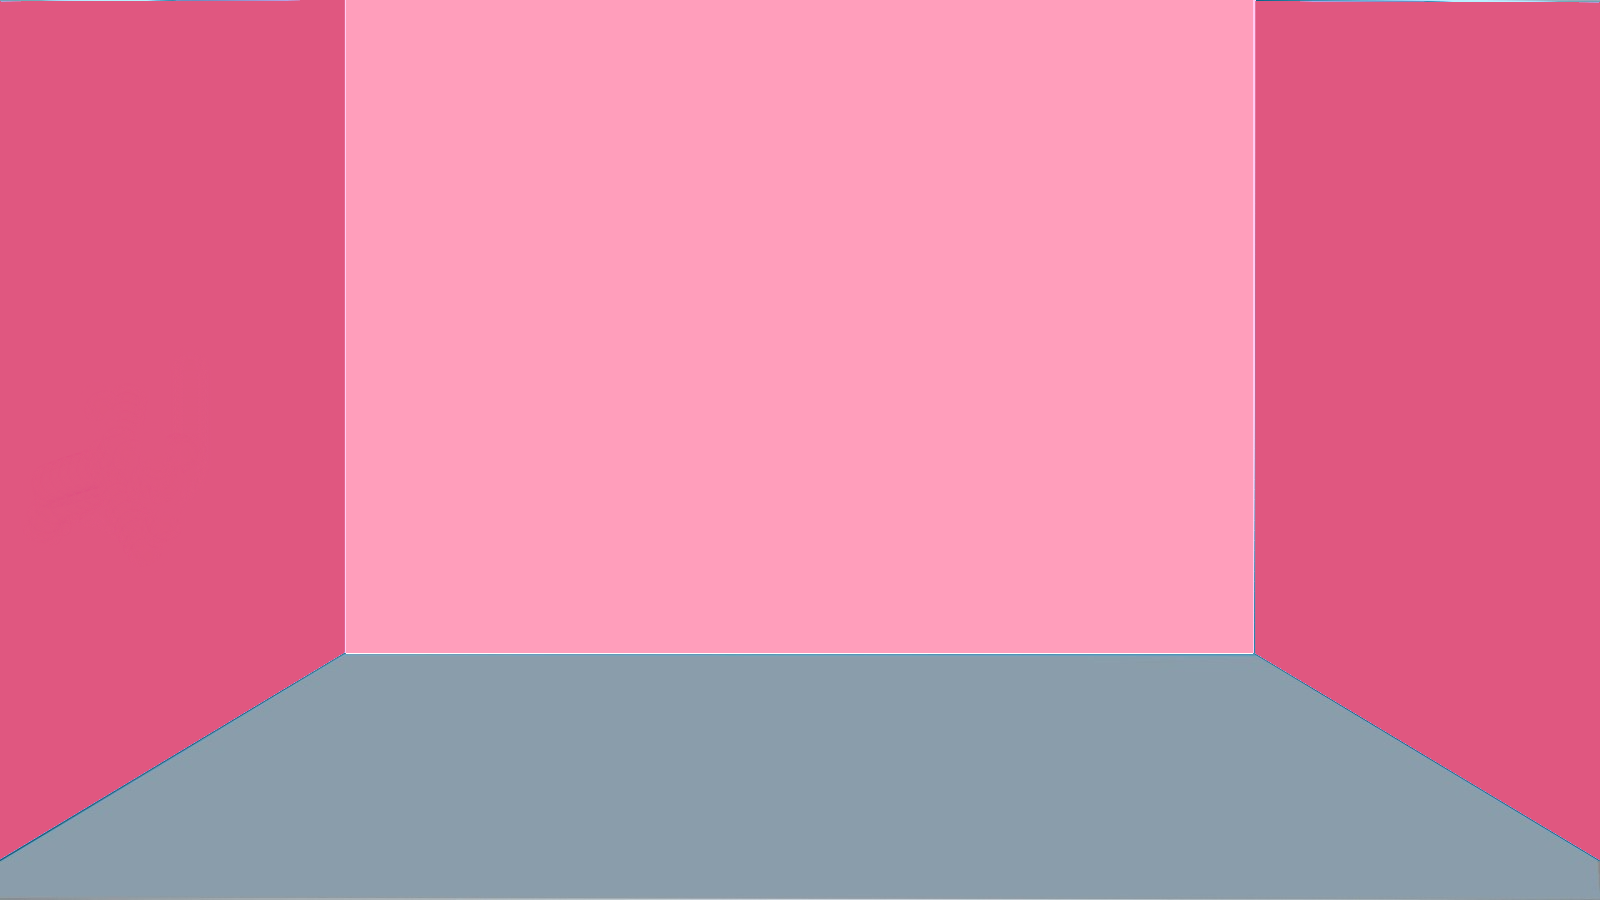
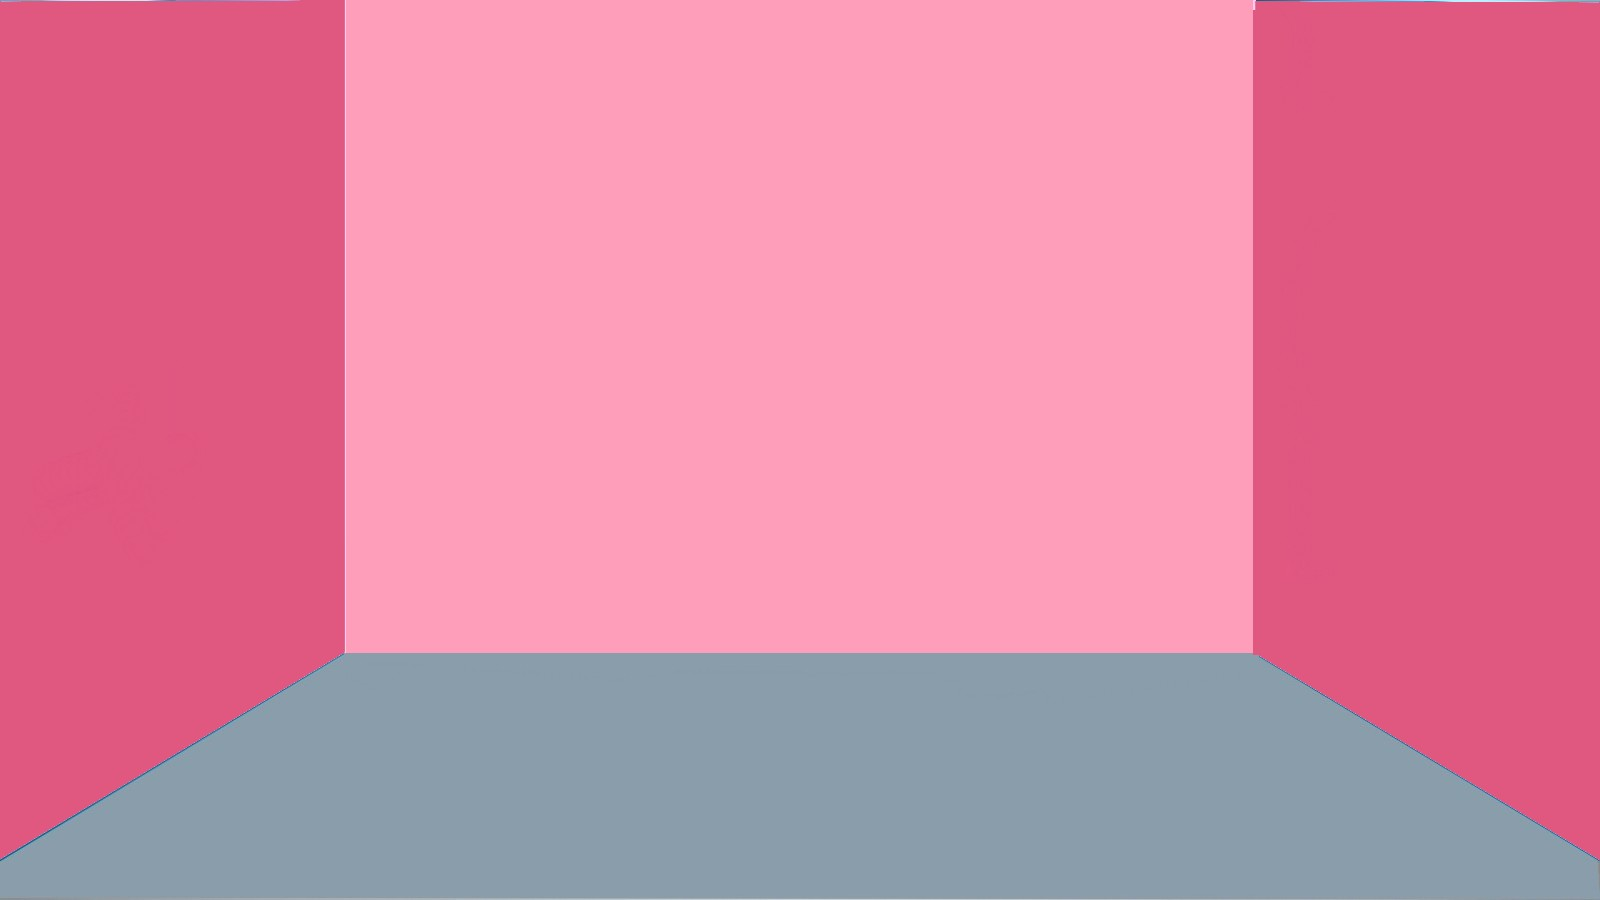
串接完:裝飾,背景,素材接準備好,衣櫃預覽圖片已完成

Changed region(s): [[0.2188, 0.7156, 0.7812, 0.7467], [0.7812, 0.0, 0.8125, 0.0311]]

diff --git a/cm-project/src/views/Room.vue b/cm-project/src/views/Room.vue
@@ -1,10 +1,14 @@
 <template>
   <main class="main">
-    <div class="row">
+    <div v-if="colorType" class="row" :style="setLayout">
       <header class="base__head">
         <IconList @goRoom="changeRoom" />
       </header>
       <section class="room__body">
+        <!-- 房間裝飾 -->
+        <div class="decoImgBox ">
+          <img class="decoImg " :src="decoArr[decoSrc - 1].src" alt="裝飾" />
+        </div>
         <!-- 相片牆:放相片 -->
         <!-- 衣櫥:換房間樣式 -->
         <div class="pointer photoImgBox">
@@ -63,15 +67,15 @@
         <Wardrobe class="wardrobe" v-if="showWardrobe" @leave="closeWardrobe" />
         <div v-if="bedSrc" class="bedImgBox">
           <img
-            class="bedimg img-resp"
+            class="bedImg img-resp"
             :src="bedArr[bedSrc - 1].src"
             alt="床照片"
             width="413"
             height="273"
           />
         </div>
-        <!-- <div class="closet"><img src="" alt="" /></div>
-        <div class="wall"><img src="" alt="" /></div>
+
+        <!-- <div class="wall"><img src="" alt="" /></div>
         <div class="wall"><img src="" alt="" /></div>
         <div class="wall"><img src="" alt="" /></div>
         <div class="wall"><img src="" alt="" /></div> -->
@@ -141,11 +145,13 @@ export default {
       photo2: "",
       photo3: "",
       roomId: 0,
-      bedSrc: "",
-      diarySrc: "",
-      bookcaseSrc: "",
-      deskSrc: "",
-      closetSrc: "",
+      bedSrc: 1,
+      diarySrc: 1,
+      bookcaseSrc: 1,
+      deskSrc: 1,
+      closetSrc: 1,
+      colorType: 1,
+      decoSrc: 1,
       wallArr: [
         {
           itemIndex: 1,
@@ -222,6 +228,18 @@ export default {
         {
           itemIndex: 4,
           src: "../../static/imgs/room/diaryColor/diary_4.png"
+        },
+        {
+          itemIndex: 2,
+          src: "../../static/imgs/room/diaryColor/diary_5.png"
+        },
+        {
+          itemIndex: 3,
+          src: "../../static/imgs/room/diaryColor/diary_6.png"
+        },
+        {
+          itemIndex: 4,
+          src: "../../static/imgs/room/diaryColor/diary_7.png"
         }
       ],
       bookcaseArr: [
@@ -298,6 +316,18 @@ export default {
         {
           itemIndex: 6,
           src: "../../static/imgs/room/deskColor/desk_6.png"
+        },
+        {
+          itemIndex: 7,
+          src: "../../static/imgs/room/deskColor/desk_7.png"
+        },
+        {
+          itemIndex: 8,
+          src: "../../static/imgs/room/deskColor/desk_8.png"
+        },
+        {
+          itemIndex: 9,
+          src: "../../static/imgs/room/deskColor/desk_9.png"
         }
       ],
       closetArr: [
@@ -333,6 +363,36 @@ export default {
           itemIndex: 8,
           src: "../../static/imgs/room/closetColor/closet_8.png"
         }
+      ],
+      decoArr: [
+        {
+          itemIndex: 1,
+          src: "../../static/imgs/room/decoColor/deco_1.png"
+        },
+        {
+          itemIndex: 1,
+          src: "../../static/imgs/room/decoColor/deco_2.png"
+        },
+        {
+          itemIndex: 1,
+          src: "../../static/imgs/room/decoColor/deco_3.png"
+        },
+        {
+          itemIndex: 1,
+          src: "../../static/imgs/room/decoColor/deco_4.png"
+        },
+        {
+          itemIndex: 1,
+          src: "../../static/imgs/room/decoColor/deco_5.png"
+        },
+        {
+          itemIndex: 1,
+          src: "../../static/imgs/room/decoColor/deco_6.png"
+        },
+        {
+          itemIndex: 1,
+          src: "../../static/imgs/room/decoColor/deco_7.png"
+        }
       ]
     };
   },
@@ -340,6 +400,15 @@ export default {
     Photo,
     Wardrobe,
     IconList
+  },
+  computed: {
+    // 背景
+    setLayout() {
+      const image = this.wallArr[this.colorType - 1].src;
+      return {
+        backgroundImage: `url(${image})`
+      };
+    }
   },
   created() {
     this.roomId = this.$route.query.id;
@@ -357,6 +426,8 @@ export default {
       this.bookcaseSrc = res1.data.bookShelf;
       this.deskSrc = res1.data.desk;
       this.closetSrc = res1.data.closet;
+      this.colorType = res1.data.colorType;
+      this.decoSrc = res1.data.deco;
       // console.log(this.deskArr[this.deskSrc].src);
     });
     // console.log(this.$store.getters.doorIndex);
@@ -455,7 +526,7 @@ export default {
   max-width: 100vw;
   width: 100vw;
   height: 50vw;
-  background-image: url("../../static/imgs/room/bgColor/bg_blue.jpg");
+  /* background-image: url("../../static/imgs/room/bgColor/bg_blue.jpg"); */
   background-repeat: none;
   background-size: cover;
   background-position: center;
@@ -604,12 +675,22 @@ export default {
   /* background-color: burlywood; */
 }
 .bedImg {
-  max-width: 100%;
+  width: 100%;
   /* vertical-align: bottom; */
-  max-height: 100%;
-  background-color: cadetblue;
+  /* max-height: 100%;
+  background-color: cadetblue; */
 }
-
+/* 裝飾 */
+.decoImgBox {
+  position: absolute;
+  left: 2%;
+  top: 3%;
+  /* background-color: coral; */
+}
+.decoImg {
+  width: 100%;
+  /* background-color: rgba(128, 255, 0, 0.384); */
+}
 /* @keyframes fade {
   from {
     opacity: 1;

diff --git a/cm-project/src/components/Wardrobe.vue b/cm-project/src/components/Wardrobe.vue
@@ -25,7 +25,7 @@
         <aside class="rightBox">
           <!-- 右邊標題 -->
           <header class="rightTit">{{ switchItem }}</header>
-          <div v-if="arr">
+          <div v-if="arr.length">
             <Furniture :furnitures="arr" :furnitureItem="switchItem" />
           </div>
         </aside>
@@ -46,13 +46,12 @@ const furnitureEnum = {
   decoretion: "裝飾",
   wall: "牆壁"
 };
-
 import Furniture from "@/components/Furniture.vue";
 export default {
   data() {
     return {
       switchItem: "物品名稱",
-      arr: null,
+      arr: [],
       furnitureList: Object.values(furnitureEnum),
       wallArr: [
         {
@@ -134,6 +133,18 @@ export default {
         {
           itemIndex: 4,
           src: "../../static/imgs/room/diaryColor/diary_4.png"
+        },
+        {
+          itemIndex: 2,
+          src: "../../static/imgs/room/diaryColor/diary_5.png"
+        },
+        {
+          itemIndex: 3,
+          src: "../../static/imgs/room/diaryColor/diary_6.png"
+        },
+        {
+          itemIndex: 4,
+          src: "../../static/imgs/room/diaryColor/diary_7.png"
         }
       ],
       bedArr: [
@@ -190,6 +201,18 @@ export default {
         {
           itemIndex: 6,
           src: "../../static/imgs/room/deskColor/desk_6.png"
+        },
+        {
+          itemIndex: 7,
+          src: "../../static/imgs/room/deskColor/desk_7.png"
+        },
+        {
+          itemIndex: 8,
+          src: "../../static/imgs/room/deskColor/desk_8.png"
+        },
+        {
+          itemIndex: 9,
+          src: "../../static/imgs/room/deskColor/desk_9.png"
         }
       ],
       bookcaseArr: [
@@ -240,6 +263,36 @@ export default {
         {
           itemIndex: 12,
           src: "../../static/imgs/room/bookcaseColor/bookcase_12.png"
+        }
+      ],
+      decoArr: [
+        {
+          itemIndex: 1,
+          src: "../../static/imgs/room/decoColor/deco_1.png"
+        },
+        {
+          itemIndex: 2,
+          src: "../../static/imgs/room/decoColor/deco_2.png"
+        },
+        {
+          itemIndex: 1,
+          src: "../../static/imgs/room/decoColor/deco_3.png"
+        },
+        {
+          itemIndex: 1,
+          src: "../../static/imgs/room/decoColor/deco_4.png"
+        },
+        {
+          itemIndex: 1,
+          src: "../../static/imgs/room/decoColor/deco_5.png"
+        },
+        {
+          itemIndex: 1,
+          src: "../../static/imgs/room/decoColor/deco_6.png"
+        },
+        {
+          itemIndex: 1,
+          src: "../../static/imgs/room/decoColor/deco_7.png"
         }
       ]
     };
@@ -302,7 +355,9 @@ export default {
       this.arr = this.closetArr;
     },
     // 點擊裝飾項目
-    clickDecoretion() {},
+    clickDecoretion() {
+      this.arr = this.decoArr;
+    },
     clickWall() {
       this.arr = this.wallArr;
     },

diff --git a/cm-project/src/components/Furniture.vue b/cm-project/src/components/Furniture.vue
@@ -14,7 +14,7 @@
         </div>
         <div class="imgBox mx-auto">
           <!-- <div v-for="(item, index) in furnitures" :key="index"> -->
-          <img class="furnitureImg" :src="furnitures[count].src" alt="" />
+          <img class="furnitureImg " :src="furnitures[count].src" alt="" />
           <!-- </div> -->
         </div>
         <div class="right__btn" @click="isNext = true">
@@ -116,6 +116,7 @@ export default {
           this.useBed();
           break;
         case furnitureEnum.decoretion:
+          this.useDeco();
           break;
         case furnitureEnum.wall:
           this.useWall();
@@ -182,6 +183,16 @@ export default {
       setCloset(closetData).then(res => {
         console.log(res.data);
       });
+    },
+    // 打更換裝飾api
+    useDeco() {
+      const decoData = {
+        userSeriel: this.$store.getters.userSeriel,
+        itemIndex: this.count + 1
+      };
+      setDecorate(decoData).then(res => {
+        console.log(res.data);
+      });
     }
   }
 };
@@ -207,8 +218,10 @@ export default {
   background-color: darkgray;
 }
 /* 照片 */
-.img {
-  width: 100%;
+.furnitureImg {
+  width: 23vw;
+  height: 23vw;
+  object-fit: contain;
   /* opacity: 0; */
 }
 /* 左邊按鈕容器 */

diff --git a/cm-project/src/main.js b/cm-project/src/main.js
@@ -11,7 +11,6 @@ import PortalVue from "portal-vue";
 import { BootstrapVue } from "bootstrap-vue";
 import "bootstrap/dist/css/bootstrap.css";
 import "bootstrap-vue/dist/bootstrap-vue.css";
-import DatePicker from "vue2-datepicker";
 // import { VueDatePicker } from "@mathieustan/vue-datepicker";
 // import "@mathieustan/vue-datepicker/dist/vue-datepicker.min.css";
 // import { $cookies } from "vue/types/umd";
@@ -19,7 +18,6 @@ import DatePicker from "vue2-datepicker";
 // import { routes } from "./router"; //路由規則
 // Vue.use(PortalVue);
 // Vue.use(VueDatePicker);
-Vue.use(DatePicker);
 Vue.use(VueAxios, axios);
 Vue.use(VueCookies);
 Vue.config.productionTip = false;

diff --git a/cm-project/src/views/Diary.vue b/cm-project/src/views/Diary.vue
@@ -117,7 +117,6 @@ import {
   setImg,
   setDiaryImg
 } from "@/js/all.js";
-import "vue2-datepicker/index.css";
 import Datepicker from "vuejs-datepicker";
 import { zh } from "vuejs-datepicker/dist/locale";
 export default {
